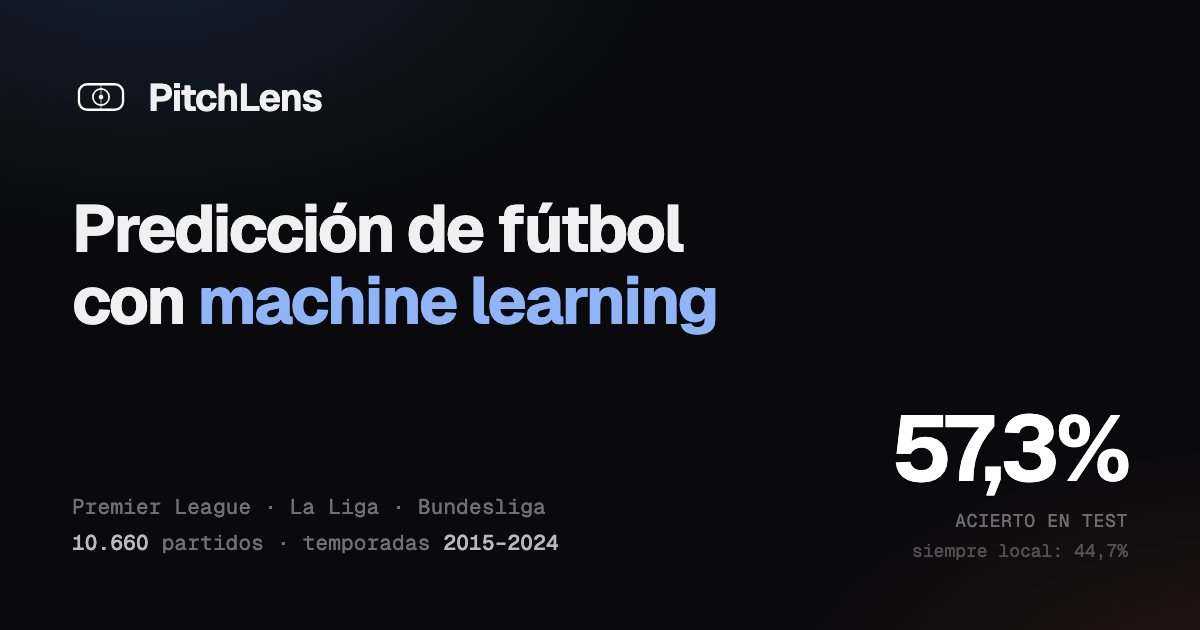
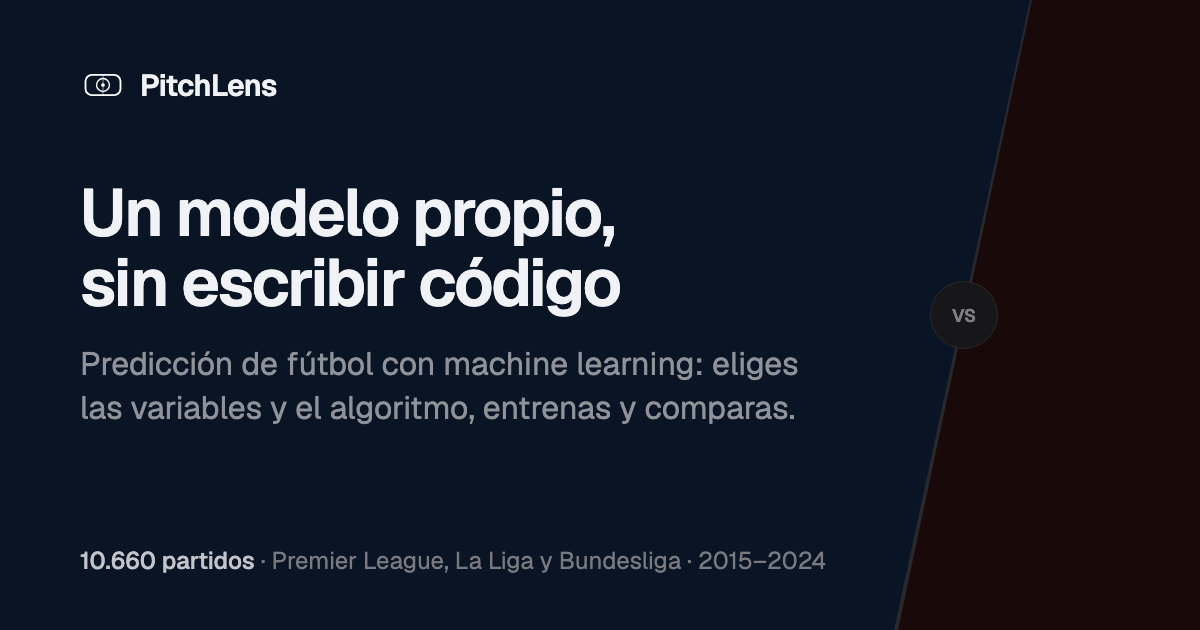
feat: tarjeta de enlace con el sistema visual de la web y del carrusel
La tarjeta anterior era una plantilla genérica (brillos de color, palabra
resaltada, datos en monoespaciada y cifra gigante) que no se parecía ni a la app
ni a las láminas de LinkedIn. La nueva usa la diagonal y los fondos del hero de
PredictorPage, el VS, Geist y la maqueta y el titular de la lámina de PitchLens.

Claude-Session: https://claude.ai/code/session_01MB5hzvEM2TkRUJCogpoTUH

diff --git a/frontend/scripts/og-card.html b/frontend/scripts/og-card.html
@@ -3,18 +3,22 @@
   Plantilla de la tarjeta de enlace (public/og.png), la imagen que sale al pegar
   pitchlens.es en LinkedIn, WhatsApp o Slack.
 
-  No entra en el build: es la fuente para regenerar el PNG cuando cambien las
-  cifras. Se renderiza a 1200×630 desde frontend/:
+  No entra en el build: es la fuente para regenerar el PNG cuando cambie el texto.
+  Se renderiza a 1200×630 desde frontend/:
 
     npx playwright screenshot --viewport-size=1200,630 \
       scripts/og-card.html public/og.png
 
-  Las cifras salen de models/metrics.json (test accuracy del modelo market), de
-  core_enriched.parquet (10.660 partidos, temporadas 2015-2024) y de la victoria
-  local en test (temporada 2024 de core_features: 44,7 %). La mayoritaria de todo
-  el dataset (45,6 %) no es comparable con un acierto medido en test. Si se reentrena
-  o se amplía el dataset, actualizar aquí y volver a renderizar — y pasar la URL
-  por el Post Inspector de LinkedIn, que cachea la tarjeta una semana.
+  Sale del sistema visual que ya existe, sin inventar nada:
+  - La diagonal, sus dos fondos y la costura #28282d son los del hero de
+    PredictorPage.tsx (HOME_BG, AWAY_BG). El VS es el mismo círculo.
+  - La maqueta (marca, titular en dos líneas, bajada gris, pie) y el titular son
+    los de la lámina de PitchLens del carrusel de LinkedIn.
+  - Tipografía Geist y tintas de index.css. Sin degradados ni palabras resaltadas.
+
+  El número de partidos sale de core_enriched.parquet (10.660, temporadas
+  2015-2024). Si cambia, actualizar aquí, volver a renderizar y pasar la URL por
+  el Post Inspector de LinkedIn, que cachea la tarjeta una semana.
 -->
 <html lang="es">
 <head>
@@ -25,84 +29,60 @@
     src: url("../public/fonts/GeistSans-Variable.woff2") format("woff2");
     font-weight: 100 900;
   }
-  @font-face {
-    font-family: "Geist Mono";
-    src: url("../public/fonts/GeistMono-Variable.woff2") format("woff2");
-    font-weight: 100 900;
-  }
 
   * { margin: 0; padding: 0; box-sizing: border-box; }
 
   body {
     width: 1200px; height: 630px;
-    background: #0a0a0c;
+    overflow: hidden; position: relative;
+    background: #28282d;                       /* la costura de la diagonal */
     font-family: "Geist", sans-serif;
-    font-feature-settings: "ss09" 1;
-    color: #f0f0f0;
-    overflow: hidden;
-    position: relative;
+    color: oklch(0.96 0.005 268);              /* --color-ink */
   }
 
-  /* Eco del hero de la app: azul del local arriba, granate del visitante abajo,
-     muy bajados de intensidad para que no compitan con el texto. */
-  .tinte-local {
-    position: absolute; inset: 0;
-    background: radial-gradient(900px 500px at 12% -10%, rgba(77,147,248,0.16), transparent 60%);
+  /* La diagonal del hero, desplazada a la derecha para dejar sitio al texto. */
+  .local {
+    position: absolute; inset: 0; background: #091524;
+    clip-path: polygon(0 0, 1030px 0, 894px 100%, 0 100%);
   }
-  .tinte-visitante {
-    position: absolute; inset: 0;
-    background: radial-gradient(800px 460px at 105% 115%, rgba(243,90,90,0.14), transparent 62%);
+  .visitante {
+    position: absolute; inset: 0; background: #190909;
+    clip-path: polygon(1032px 0, 100% 0, 100% 100%, 898px 100%);
+  }
+  .vs {
+    position: absolute; left: 964px; top: 315px; transform: translate(-50%, -50%);
+    width: 68px; height: 68px; border-radius: 50%;
+    background: #171719; border: 1px solid #2a2a2a;
+    display: grid; place-items: center;
+    font-size: 18px; font-weight: 600; color: rgba(255,255,255,0.45);
   }
 
   .marco {
-    position: relative;
-    height: 100%;
-    padding: 68px 72px;
-    display: flex; flex-direction: column; justify-content: space-between;
+    position: absolute; left: 0; top: 0; bottom: 0; width: 860px;
+    padding: 62px 0 54px 80px;
+    display: flex; flex-direction: column;
   }
-
-  .marca { display: flex; align-items: center; gap: 18px; }
-  .marca svg { width: 58px; height: 58px; }
-  .marca span { font-size: 38px; font-weight: 650; letter-spacing: -0.025em; }
+  .marca { display: flex; align-items: center; gap: 14px; }
+  .marca svg { width: 46px; height: 46px; }
+  .marca span { font-size: 30px; font-weight: 600; letter-spacing: -0.02em; }
 
   h1 {
-    font-size: 66px; font-weight: 700;
-    letter-spacing: -0.033em; line-height: 1.08;
-    max-width: 15ch;
+    margin-top: 70px;
+    font-size: 66px; font-weight: 600; letter-spacing: -0.03em; line-height: 1.06;
   }
-  h1 em { font-style: normal; color: #8fb4f8; }
-
-  .pie { display: flex; align-items: flex-end; justify-content: space-between; gap: 40px; }
-
-  .datos {
-    font-family: "Geist Mono", monospace;
-    font-size: 21px; letter-spacing: 0.01em;
-    color: rgba(255,255,255,0.42);
-    line-height: 1.75;
+  p {
+    margin-top: 24px; max-width: 740px;
+    font-size: 32px; line-height: 1.38;
+    color: oklch(0.66 0.01 268);
   }
-  .datos b { color: rgba(255,255,255,0.72); font-weight: 500; }
-
-  .acierto { text-align: right; flex-shrink: 0; }
-  .acierto .cifra {
-    font-size: 92px; font-weight: 680; letter-spacing: -0.04em;
-    line-height: 1; color: #fff;
-  }
-  .acierto .etiqueta {
-    margin-top: 14px;
-    font-family: "Geist Mono", monospace;
-    font-size: 18px; letter-spacing: 0.04em; text-transform: uppercase;
-    color: rgba(255,255,255,0.40);
-  }
-  .acierto .contraste {
-    margin-top: 7px;
-    font-family: "Geist Mono", monospace;
-    font-size: 18px; color: rgba(255,255,255,0.28);
-  }
+  .pie { margin-top: auto; font-size: 24px; color: oklch(0.58 0.01 268); }
+  .pie b { font-weight: 500; color: oklch(0.82 0.008 268); }
 </style>
 </head>
 <body>
-  <div class="tinte-local"></div>
-  <div class="tinte-visitante"></div>
+  <div class="local"></div>
+  <div class="visitante"></div>
+  <div class="vs">VS</div>
 
   <div class="marco">
     <div class="marca">
@@ -115,19 +95,10 @@
       <span>PitchLens</span>
     </div>
 
-    <h1>Predicción de fútbol con <em>machine learning</em></h1>
+    <h1>Un modelo propio,<br>sin escribir código</h1>
+    <p>Predicción de fútbol con machine learning: eliges las variables y el algoritmo, entrenas y comparas.</p>
 
-    <div class="pie">
-      <div class="datos">
-        <div>Premier League · La Liga · Bundesliga</div>
-        <div><b>10.660</b> partidos · temporadas <b>2015–2024</b></div>
-      </div>
-      <div class="acierto">
-        <div class="cifra">57,3%</div>
-        <div class="etiqueta">acierto en test</div>
-        <div class="contraste">siempre local: 44,7%</div>
-      </div>
-    </div>
+    <div class="pie"><b>10.660 partidos</b> · Premier League, La Liga y Bundesliga · 2015–2024</div>
   </div>
 </body>
 </html>

diff --git a/frontend/index.html b/frontend/index.html
@@ -48,7 +48,7 @@
     <meta property="og:image:type" content="image/png" />
     <meta property="og:image:width" content="1200" />
     <meta property="og:image:height" content="630" />
-    <meta property="og:image:alt" content="PitchLens — predicción de fútbol con machine learning. 57,3% de acierto en test." />
+    <meta property="og:image:alt" content="PitchLens — Un modelo propio, sin escribir código. Predicción de fútbol con machine learning sobre 10.660 partidos de Premier League, La Liga y Bundesliga." />
 
     <meta name="twitter:card" content="summary_large_image" />
     <meta name="twitter:title" content="PitchLens — Predicción de fútbol con machine learning" />
